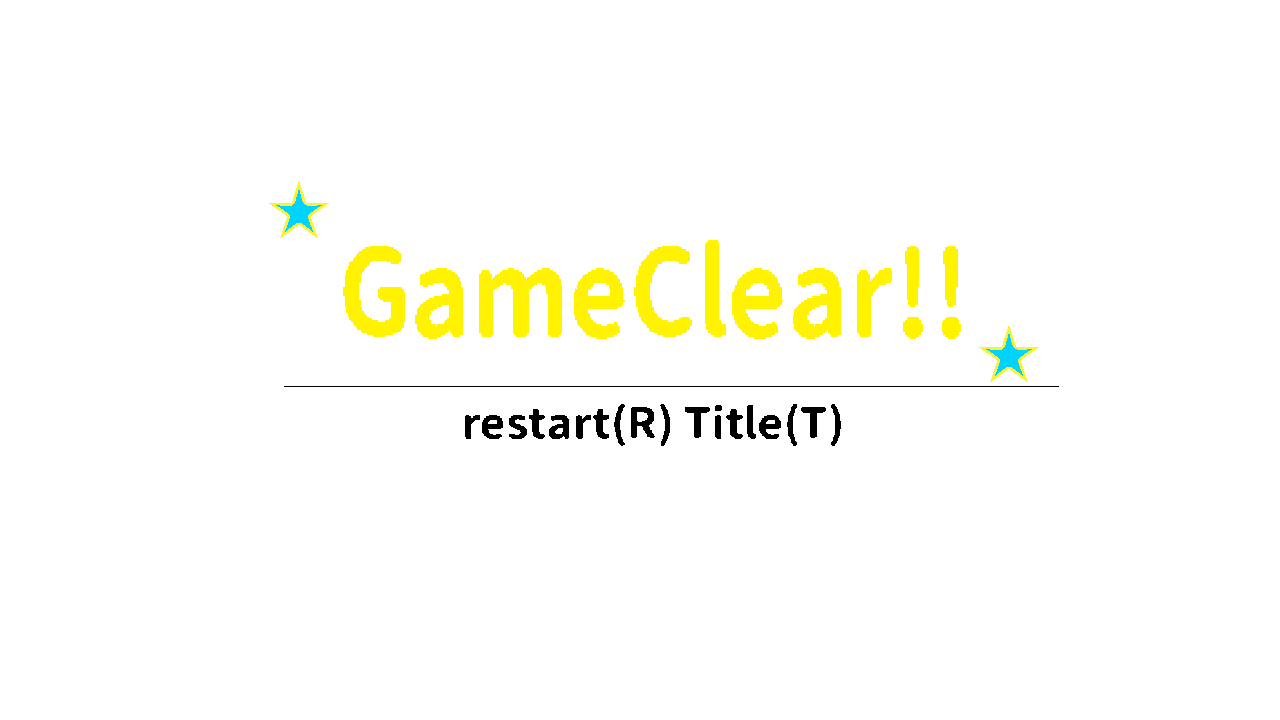
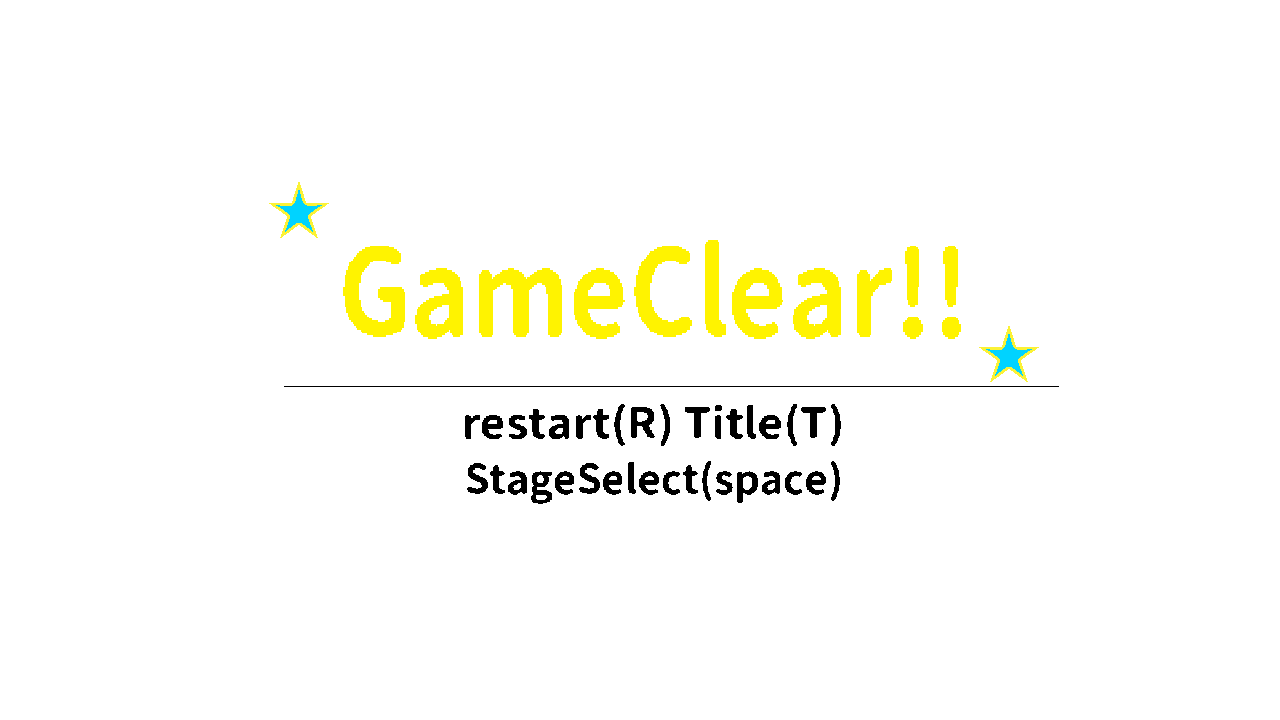
完了

Changed region(s): [[0.3438, 0.6417, 0.6562, 0.7028]]

diff --git a/DirectXGame/Scenes/StageSelectScene.cpp b/DirectXGame/Scenes/StageSelectScene.cpp
@@ -15,9 +15,10 @@ using namespace KamataEngine;
 StageSelectScene::StageSelectScene() : m_board(18, 10) {}
 
 StageSelectScene::~StageSelectScene() {
-	// ★ スプライトの解放
+	// スプライトの解放
 	delete m_spriteNum1;
 	delete m_spriteNum2;
+	delete m_spriteNum3; // ★ 追加
 }
 
 void StageSelectScene::Initialize() {
@@ -95,19 +96,13 @@ void StageSelectScene::Initialize() {
 	D3DCompileFromFile(L"Graphics/PipeVS.hlsl", nullptr, nullptr, "main", "vs_5_0", 0, 0, &vsBlob, &errorBlob);
 	D3DCompileFromFile(L"Graphics/PipePS.hlsl", nullptr, nullptr, "main", "ps_5_0", 0, 0, &psBlob, &errorBlob);
 
-	// テクスチャ読み込み
-	// m_textureHandleOff = TextureManager::Load("Pipe/I_Pipe/I_Pipe_Off.png");
-	// m_textureHandleOn = TextureManager::Load("Pipe/I_Pipe/I_Pipe_On.png");
-
 	// ルートパラメータの設定 (t0: インスタンス, t1: テクスチャOFF, t2: テクスチャON)
 	D3D12_ROOT_PARAMETER rootParams[3] = {};
 
-	// t0: インスタンスデータ (StructuredBuffer)
 	rootParams[0].ParameterType = D3D12_ROOT_PARAMETER_TYPE_SRV;
 	rootParams[0].Descriptor.ShaderRegister = 0;
 	rootParams[0].ShaderVisibility = D3D12_SHADER_VISIBILITY_ALL;
 
-	// t1: テクスチャOFF (Descriptor Table)
 	D3D12_DESCRIPTOR_RANGE rangeOff = {};
 	rangeOff.RangeType = D3D12_DESCRIPTOR_RANGE_TYPE_SRV;
 	rangeOff.NumDescriptors = 1;
@@ -118,7 +113,6 @@ void StageSelectScene::Initialize() {
 	rootParams[1].DescriptorTable.pDescriptorRanges = &rangeOff;
 	rootParams[1].ShaderVisibility = D3D12_SHADER_VISIBILITY_PIXEL;
 
-	// t2: テクスチャON (Descriptor Table)
 	D3D12_DESCRIPTOR_RANGE rangeOn = {};
 	rangeOn.RangeType = D3D12_DESCRIPTOR_RANGE_TYPE_SRV;
 	rangeOn.NumDescriptors = 1;
@@ -129,7 +123,6 @@ void StageSelectScene::Initialize() {
 	rootParams[2].DescriptorTable.pDescriptorRanges = &rangeOn;
 	rootParams[2].ShaderVisibility = D3D12_SHADER_VISIBILITY_PIXEL;
 
-	// サンプラー設定 (s0)
 	D3D12_STATIC_SAMPLER_DESC sampler = {};
 	sampler.Filter = D3D12_FILTER_MIN_MAG_MIP_POINT;
 	sampler.AddressU = D3D12_TEXTURE_ADDRESS_MODE_CLAMP;
@@ -173,33 +166,37 @@ void StageSelectScene::Initialize() {
 
 	UpdateInstanceBuffers();
 
-	// ★ ステージナンバー画像の読み込みとスプライト作成
+	// ステージナンバー画像の読み込みとスプライト作成
 	m_texNum1 = TextureManager::Load("SelectNumber/SelectNumber_1.png");
 	m_texNum2 = TextureManager::Load("SelectNumber/SelectNumber_2.png");
+	m_texNum3 = TextureManager::Load("SelectNumber/SelectNumber_3.png"); // ★ 追加
 
 	m_spriteNum1 = Sprite::Create(m_texNum1, {0.0f, 0.0f});
 	m_spriteNum2 = Sprite::Create(m_texNum2, {0.0f, 0.0f});
+	m_spriteNum3 = Sprite::Create(m_texNum3, {0.0f, 0.0f}); // ★ 追加
 
-	// ★ 画像のサイズと配置場所の調整
-	if (m_spriteNum1 && m_spriteNum2) {
+	// 画像のサイズと配置場所の調整 (3つ並びに変更)
+	if (m_spriteNum1 && m_spriteNum2 && m_spriteNum3) {
 		float winWidth = static_cast<float>(WinApp::kWindowWidth);
 		float winHeight = static_cast<float>(WinApp::kWindowHeight);
 
-		// 中心軸を中央に設定
 		m_spriteNum1->SetAnchorPoint({0.5f, 0.5f});
 		m_spriteNum2->SetAnchorPoint({0.5f, 0.5f});
+		m_spriteNum3->SetAnchorPoint({0.5f, 0.5f});
 
-		// 左右に並べて表示（間隔も少し調整できます）
-		m_spriteNum1->SetPosition({winWidth * 0.35f, winHeight * 0.5f});
-		m_spriteNum2->SetPosition({winWidth * 0.65f, winHeight * 0.5f});
+		// 画面幅を4等分して「1」「2」「3」を均等に配置
+		m_spriteNum1->SetPosition({winWidth * 0.25f, winHeight * 0.5f});
+		m_spriteNum2->SetPosition({winWidth * 0.50f, winHeight * 0.5f});
+		m_spriteNum3->SetPosition({winWidth * 0.75f, winHeight * 0.5f});
 
-		// ★ サイズを大きく変更（例: 200 -> 360 に拡大）
-		float spriteSize = 360.0f;
+		// 3つ並ぶためサイズを少し調整 (例: 280.0f)
+		float spriteSize = 280.0f;
 		m_spriteNum1->SetSize({spriteSize, spriteSize});
 		m_spriteNum2->SetSize({spriteSize, spriteSize});
+		m_spriteNum3->SetSize({spriteSize, spriteSize});
 	}
 
-	// ★ BGMの読み込みとループ再生（音源ファイルのパスを指定してください）
+	// BGMの読み込みとループ再生
 	m_bgmHandle = Audio::GetInstance()->LoadWave("BGM/StageSelectSceneBGM.wav");
 	m_playHandle = Audio::GetInstance()->PlayWave(m_bgmHandle, true, 0.5f);
 }
@@ -207,19 +204,23 @@ void StageSelectScene::Initialize() {
 void StageSelectScene::Update(float /*deltaTime*/) {
 	auto input = Input::GetInstance();
 
-	// [1] キー：EASY（10x6 の小さめマップ）
+	// [1] キー：EASY（10x6）
 	if (input->PushKey(DIK_1)) {
-		// ★ ステージセレクトへ遷移するタイミングでBGMを停止
 		Audio::GetInstance()->StopWave(m_playHandle);
 		Audio::GetInstance()->StopWave(m_bgmHandle);
 		m_sceneManager->ChangeScene(std::make_unique<GameScene>(10, 6));
 	}
-	// [2] キー：NORMAL（18x10 の画面ピッタリ全画面マップ）
+	// [2] キー：NORMAL（18x10）
 	else if (input->PushKey(DIK_2)) {
-		// ★ ステージセレクトへ遷移するタイミングでBGMを停止
 		Audio::GetInstance()->StopWave(m_playHandle);
 		Audio::GetInstance()->StopWave(m_bgmHandle);
 		m_sceneManager->ChangeScene(std::make_unique<GameScene>(18, 10));
+	}
+	// ★ [3] キー：HARD（32x18 - 16:9 ピッタリ高難易度）
+	else if (input->PushKey(DIK_3)) {
+		Audio::GetInstance()->StopWave(m_playHandle);
+		Audio::GetInstance()->StopWave(m_bgmHandle);
+		m_sceneManager->ChangeScene(std::make_unique<GameScene>(32, 18));
 	}
 }
 
@@ -231,15 +232,11 @@ void StageSelectScene::UpdateInstanceBuffers() {
 	float winHeight = static_cast<float>(WinApp::kWindowHeight); // 720.0f
 	float aspectRatio = winWidth / winHeight;                    // 16:9 (約1.777f)
 
-	// ★ 1. 縦幅いっぱいに収まるベースのマスサイズ（NDC座標系は高さ全域で 2.0f）
 	float tileSizeY = 2.0f / static_cast<float>(m_board.GetHeight());
-	// ★ 正方形にするため、X方向のスケールにはアスペクト比で割った値を適用
 	float tileSizeX = tileSizeY / aspectRatio;
 
-	// ★ 2. 盤面全体の幅と高さ（NDC座標）
 	float totalWidthNDC = tileSizeX * static_cast<float>(m_board.GetWidth());
 
-	// ★ 3. 盤面を画面中央に配置するための開始オフセット（左上座標）
 	float startX = -totalWidthNDC * 0.5f + (tileSizeX * 0.5f);
 	float startY = 1.0f - (tileSizeY * 0.5f);
 
@@ -251,7 +248,6 @@ void StageSelectScene::UpdateInstanceBuffers() {
 			float posX = startX + (x * tileSizeX);
 			float posY = startY - (y * tileSizeY);
 
-			// スケールと並進の行列作成（マスが歪まないよう正方形描画）
 			XMMATRIX matScale = XMMatrixScaling(tileSizeX, tileSizeY, 1.0f);
 			XMMATRIX matTrans = XMMatrixTranslation(posX, posY, 0.0f);
 			XMMATRIX matWorld = matScale * matTrans;
@@ -287,17 +283,12 @@ void StageSelectScene::Render(ID3D12GraphicsCommandList* commandList) {
 		commandList->IASetVertexBuffers(0, 1, &m_vertexBufferView);
 		commandList->IASetIndexBuffer(&m_indexBufferView);
 
-		// t0: インスタンスバッファ
 		commandList->SetGraphicsRootShaderResourceView(0, m_instanceBufferGPUAddress);
-
-		// t1, t2: テクスチャデスクリプタテーブルのセット
-		// TextureManager::GetInstance()->SetGraphicsRootDescriptorTable(commandList, 1, m_textureHandleOff);
-		// TextureManager::GetInstance()->SetGraphicsRootDescriptorTable(commandList, 2, m_textureHandleOn);
 
 		commandList->DrawIndexedInstanced(6, static_cast<UINT>(m_instanceData.size()), 0, 0, 0);
 	}
 
-	// ★ 2. ステージナンバー画像（スプライト）の描画処理
+	// 2. ステージナンバー画像（スプライト）の描画処理
 	Sprite::PreDraw(commandList);
 
 	if (m_spriteNum1) {
@@ -305,6 +296,9 @@ void StageSelectScene::Render(ID3D12GraphicsCommandList* commandList) {
 	}
 	if (m_spriteNum2) {
 		m_spriteNum2->Draw();
+	}
+	if (m_spriteNum3) { // ★ 追加
+		m_spriteNum3->Draw();
 	}
 
 	Sprite::PostDraw();

diff --git a/DirectXGame/Game/CountDownTimer.cpp b/DirectXGame/Game/CountDownTimer.cpp
@@ -16,8 +16,17 @@ CountDownTimer::~CountDownTimer() {
 	delete m_spriteSec1;
 }
 
-void CountDownTimer::Initialize(float limitTimeSeconds) {
-	m_timeRemaining = limitTimeSeconds;
+// Initialize の引数を (float limitTimeSeconds) から (int boardWidth) に変更
+void CountDownTimer::Initialize(int boardWidth) {
+	// ★ マス数（横幅）に応じて制限時間を自動切り替え
+	if (boardWidth == 10) {
+		m_timeRemaining = 60.0f; // EASY (10x6): 1分30秒
+	} else if (boardWidth == 32) {
+		m_timeRemaining = 240.0f; // HARD (32x18): 4分00秒
+	} else {
+		m_timeRemaining = 180.0f; // NORMAL (18x10 など): 3分00秒
+	}
+
 	m_isFinished = false;
 
 	// 数字テクスチャのロード (0~9)
@@ -39,7 +48,6 @@ void CountDownTimer::Initialize(float limitTimeSeconds) {
 	m_spriteSec10->SetAnchorPoint({0.5f, 0.5f});
 	m_spriteSec1->SetAnchorPoint({0.5f, 0.5f});
 
-	// ★ XMFLOAT2 から Vector2 に変更（または直接 {} で渡す）
 	KamataEngine::Vector2 numSize = {40.0f, 50.0f};
 
 	m_spriteMin->SetSize(numSize);

diff --git a/DirectXGame/Scenes/GameScene.cpp b/DirectXGame/Scenes/GameScene.cpp
@@ -15,9 +15,7 @@ using namespace KamataEngine;
 GameScene::GameScene(int boardWidth, int boardHeight)
     : m_board(boardWidth, boardHeight), m_stageWidth(boardWidth), m_stageHeight(boardHeight), m_startX(0), m_startY(0), m_goalX(boardWidth - 1), m_goalY(boardHeight - 1) {}
 
-GameScene::~GameScene() {
-	delete m_bgSprite;
-}
+GameScene::~GameScene() { delete m_bgSprite; }
 
 void GameScene::Initialize() {
 	// ★ BGMの読み込みとループ再生
@@ -80,9 +78,9 @@ void GameScene::Initialize() {
 
 	m_renderer.UpdateBuffers(m_board, m_chargeProgress, m_goalX, m_goalY);
 
-	// 3分（180秒）でタイマーを初期化
+	// 盤面の横幅を渡して難易度別の制限時間でタイマーを初期化
 	m_timer = std::make_unique<CountDownTimer>();
-	m_timer->Initialize(60.0f);
+	m_timer->Initialize(m_board.GetWidth());
 
 	// ゲームオーバー初期化+作成
 	m_gameOver = std::make_unique<GameOver>();

diff --git a/DirectXGame/Scenes/StageSelectScene.h b/DirectXGame/Scenes/StageSelectScene.h
@@ -31,8 +31,10 @@ private:
 	// ★ 数字表示用のスプライト変数
 	uint32_t m_texNum1 = 0;
 	uint32_t m_texNum2 = 0;
+	uint32_t m_texNum3 = 0;
 	KamataEngine::Sprite* m_spriteNum1 = nullptr;
 	KamataEngine::Sprite* m_spriteNum2 = nullptr;
+	KamataEngine::Sprite* m_spriteNum3 = nullptr;
 
 	// ★ BGM用の変数
 	uint32_t m_bgmHandle = 0;

diff --git a/DirectXGame/Game/CountDownTimer.h b/DirectXGame/Game/CountDownTimer.h
@@ -9,8 +9,8 @@ public:
 	CountDownTimer() = default;
 	~CountDownTimer();
 
-	// 初期化（引数で制限時間を秒単位で指定。デフォルト180秒＝3分）
-	void Initialize(float limitTimeSeconds = 180.0f);
+	// 初期化
+	void Initialize(int boardWidth);
 
 	// 更新処理
 	void Update(float deltaTime);
